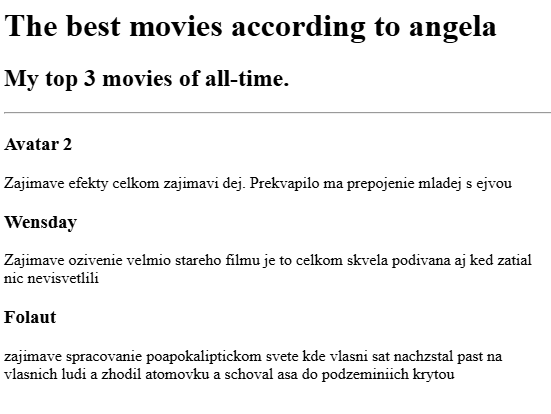
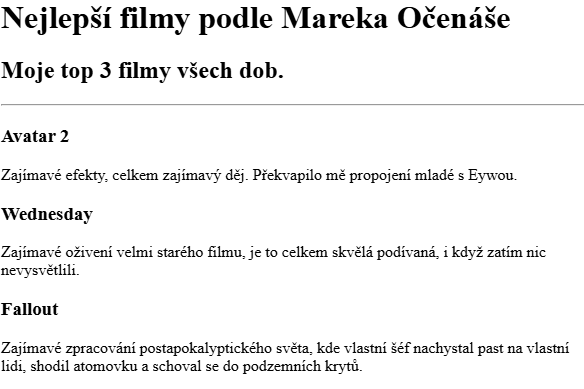
github

diff --git a/Headings/2.4+Movie+Ranking+Project/2.4 Movie Ranking Project/index.html b/Headings/2.4+Movie+Ranking+Project/2.4 Movie Ranking Project/index.html
@@ -1,15 +1,18 @@
+
 <h1>
-    The best movies according to angela 
+    Nejlepší filmy podle Mareka Očenáše
 </h1>
-<h2>My top 3 movies of  all-time.</h2>
- 
+<h2>Moje top 3 filmy všech dob.</h2>
+
 <hr />
 
-<h3>Avatar 2 </h3>
-<p>Zajimave efekty celkom zajimavi dej. Prekvapilo ma prepojenie mladej s ejvou </p>
-<h3>Wensday</h3>
-<p> Zajimave ozivenie velmio stareho filmu je to celkom skvela podivana aj ked zatial nic nevisvetlili </p>
-<h3>Folaut </h3>
-<p>zajimave spracovanie poapokaliptickom svete kde vlasni sat nachzstal past na vlasnich ludi a zhodil atomovku a schoval asa do podzeminiich krytou </p>
+<h3>Avatar 2</h3>
+<p>Zajímavé efekty, celkem zajímavý děj. Překvapilo mě propojení mladé s Eywou.</p>
+
+<h3>Wednesday</h3>
+<p>Zajímavé oživení velmi starého filmu, je to celkem skvělá podívaná, i když zatím nic nevysvětlili.</p>
+
+<h3>Fallout</h3>
+<p>Zajímavé zpracování postapokalyptického světa, kde vlastní šéf nachystal past na vlastní lidi, shodil atomovku a schoval se do podzemních krytů.</p>
 
 

diff --git a/Multipeg/4.3 HTML Porfolio Project/index.html b/Multipeg/4.3 HTML Porfolio Project/index.html
@@ -32,9 +32,10 @@ https://developer.mozilla.org/en-US/docs/Web/HTML/Element/img#attr-height -->
     <img src="../4.3 HTML Porfolio Project/assets/images/filmy.png" alt="movie ranking project preview" height=""/> 
     
      <h3> <a href="../../LU LI/3.4 Birthday Invite Project/index.html">Birthday Invite  Project</a> </h3>
-     <img src="../4.3 HTML Porfolio Project/assets/images/image.png" alt="birthday invite project preview" height=""/>
+     <img src="../4.3 HTML Porfolio Project/assets/images/narosky.png" alt="birthday invite project preview" height=""/>
      <hr>
      <h4> <a href="../4.3 HTML Porfolio Project/public/contact.html">Contact me</a> <a href="../4.3 HTML Porfolio Project/public/about.html">About me</a></h4>
      
 </body>
 </html>
+ 
